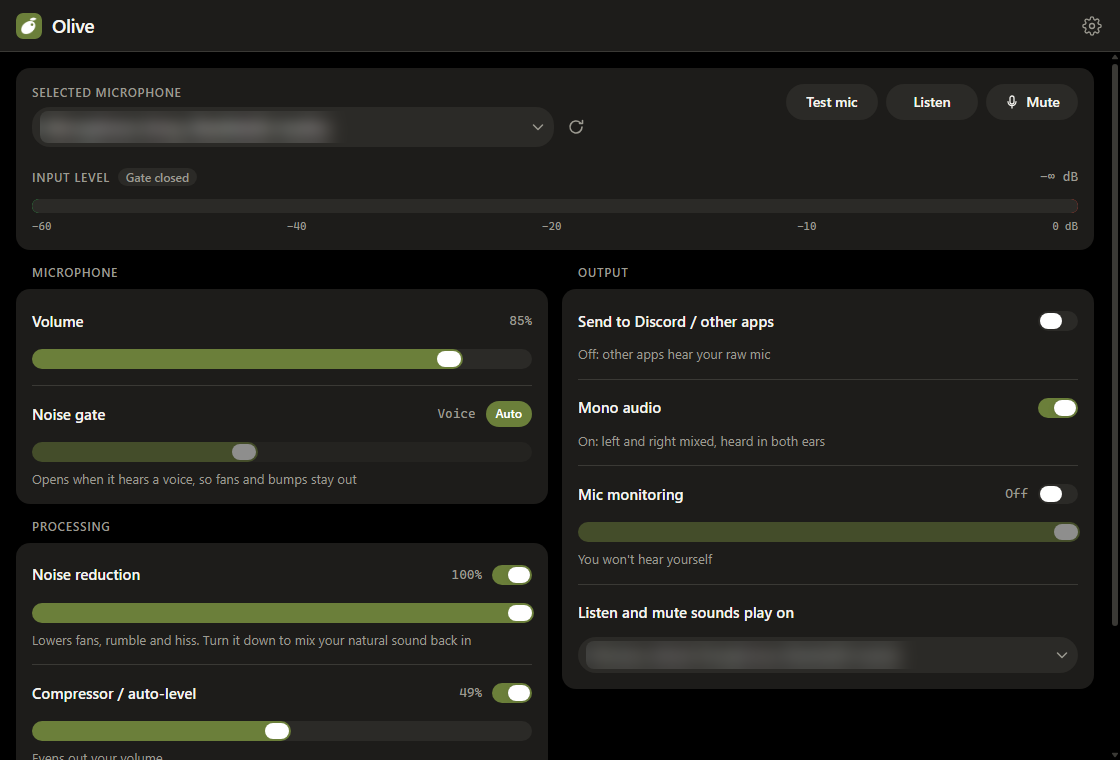
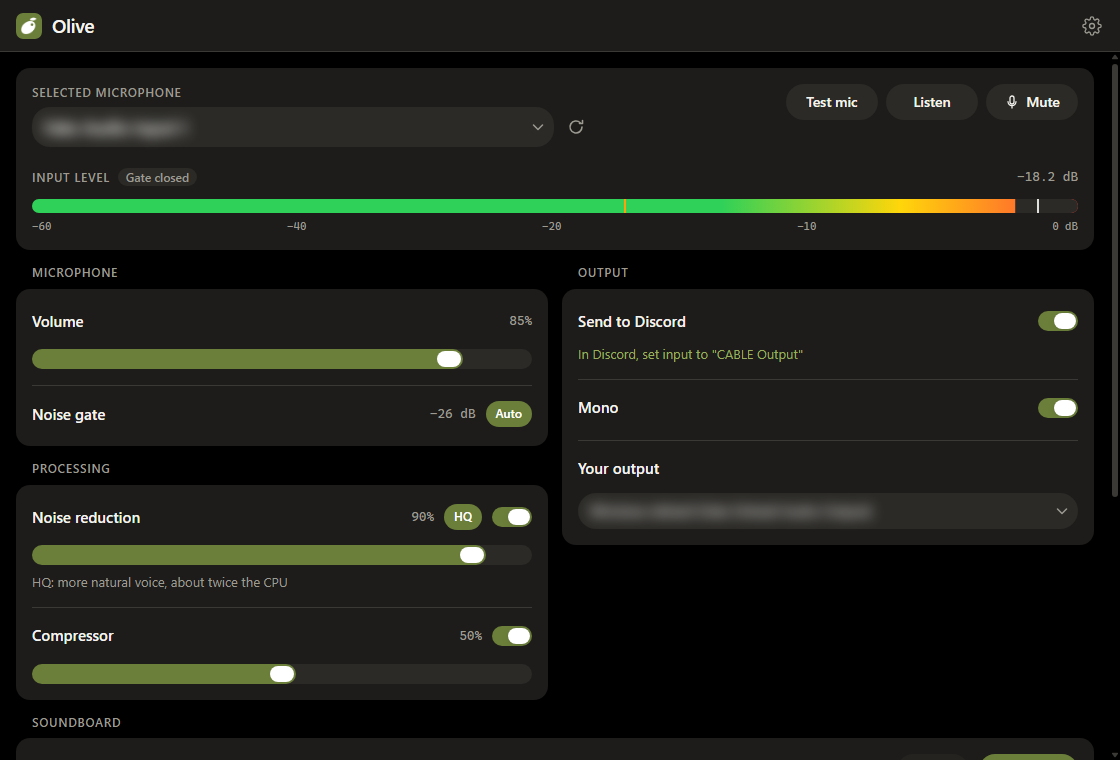
Release 2.0.0
High quality noise reduction (DeepFilterNet3) as the HQ button, the cleaner window, and the lighter defaults. The front page says what's new in 2.0, lists the new files and DeepFilterNet's licence, and has new screenshots (a test copy on a fake mic, shown as a normal install with the cable connected; device names blurred).

diff --git a/README.md b/README.md
@@ -13,7 +13,7 @@
 ## Features
 <img src="docs/settings.png" align="right" width="300" alt="The Settings panel">
 
-- **Voice cleanup:** RNNoise noise reduction with adjustable strength, and a noise gate that opens only when it hears your voice.
+- **Voice cleanup:** noise reduction with two engines, Standard (RNNoise) or HQ (DeepFilterNet3, a more natural voice), and a noise gate that opens only when it hears your voice.
 - **Compressor** to even out your volume.
 - **Six-band EQ** with a low cut and presets, saved separately for each mic, and a hold-to-compare button.
 - **Send to Discord or other apps** through [VB-Audio Virtual Cable](https://vb-audio.com/Cable/).
@@ -27,10 +27,14 @@
 
 <br clear="right">
 
-## What's new in 1.8.1
-- **Noise reduction that keeps your voice.** Olive goes back to RNNoise's April 2024 model: the 2025 one treated some laughs and parts of words as noise. It also removes more of a gusty fan and uses about 30% less CPU.
+## What's new in 2.0
+- **High quality noise reduction.** The **HQ** button next to Noise reduction switches to DeepFilterNet3: your voice comes through more natural, at about twice the CPU of the standard engine (around 1% of a typical PC). Its strength slider caps how much any sound is turned down, so a laugh can be ducked but not cut out.
+- **A cleaner window.** Sliders only show when they do something, and the text says only what you need.
+- **Lighter.** Mono is on by default, and noise reduction you've switched away from no longer keeps running.
 
-### And in 1.8.0
+### And in 1.8
+- **Noise reduction that keeps your voice.** RNNoise's April 2024 model: the 2025 one treated some laughs and parts of words as noise.
+
 ![The soundboard](docs/soundboard.png)
 
 - **A soundboard.** Add sound files (MP3, WAV, OGG, FLAC or M4A, up to 2 minutes), then click one to play it. Discord hears it over your voice.
@@ -103,14 +107,16 @@ src/renderer/    what the window page loads
   audio-engine.js  the audio chain: mic capture, noise reduction, EQ, gate, compressor, soundboard, Listen and the cable. It never touches the page, so a new window can drive it the same way
   badge.html, badge.css  the Muted badge
   voice-worklet.js noise reduction (RNNoise) and the voice gate
+  deepfilter-worklet.js  High quality noise reduction (DeepFilterNet3); dfn-polyfill.js fills in what its glue needs on the audio thread
   gate-worklet.js  volume gate, for a gate set by hand or as the fallback
   nr-worklet.js    fallback noise reduction, if the voice engine can't start
   recorder-worklet.js  records the mic test
-  vendor/          RNNoise (xiph, v0.2 from April 2024) compiled to WebAssembly by tools/build-rnnoise.js
+  vendor/          RNNoise (xiph, v0.2 from April 2024) compiled to WebAssembly by tools/build-rnnoise.js;
+                   deepfilter/: DeepFilterNet3 and its model, built by tools/build-deepfilter.js
 assets/          icons and mute sounds, both made from code (tools/make-icons.js, tools/make-sounds.js)
 docs/            the screenshots above
 CHANGELOG.md     what changed in each release
-tools/           build, packaging, signing, icon and sound scripts; build-rnnoise.js rebuilds vendor/rnnoise.wasm
+tools/           build, packaging, signing, icon and sound scripts; build-rnnoise.js and build-deepfilter.js rebuild the noise reduction
   audio-test/      npm run test:audio
   installer/       the installer and uninstaller source, and npm run test:installer
 ```
@@ -118,4 +124,4 @@ tools/           build, packaging, signing, icon and sound scripts; build-rnnois
 The palette and icon are described in [DESIGN.md](DESIGN.md).
 
 ## Licence
-Olive is released under the [MIT licence](LICENSE): you can use, change and share it, as long as the copyright notice stays with it. The bundled RNNoise build in `src/renderer/vendor` keeps its own BSD licence, in `rnnoise-LICENSE.txt`.
+Olive is released under the [MIT licence](LICENSE): you can use, change and share it, as long as the copyright notice stays with it. The bundled noise reduction in `src/renderer/vendor` keeps its own licences: RNNoise is BSD (`rnnoise-LICENSE.txt`), DeepFilterNet's code and model are MIT or Apache-2.0 (`deepfilter/LICENSE.txt`).

diff --git a/CHANGELOG.md b/CHANGELOG.md
@@ -2,6 +2,13 @@
 
 What changed in each release of Olive. Downloads are on the [Releases](https://github.com/Zaytoonic/Olive/releases) page.
 
+## 2.0.0 (25 November 2026)
+
+- High quality noise reduction: the HQ button next to Noise reduction switches to DeepFilterNet3, which keeps your voice more natural, at about twice the CPU of the standard engine (about 1% of a typical PC). Its strength slider caps how much any sound is turned down, so a laugh can be ducked but not cut out.
+- A cleaner window: sliders only show when they do something, High quality sits beside noise reduction, the Listen volume shows while Listen is on, and the text says only what you need.
+- The soundboard's settings sit in two columns on a wide window.
+- Lighter: Mono is on by default for new installs (stereo ran noise reduction twice, and Discord takes mono), the compressor no longer redraws the window while you talk, and noise reduction that was switched away no longer keeps running in the background.
+
 ## 1.8.1 (24 November 2026)
 
 - Noise reduction goes back to RNNoise's April 2024 model. The 2025 model treated some laughs and parts of words as noise and cut them; the older one let 98.5% of normal talking through the gate on a laptop mic, against 62-88% before, and stays shut when you're quiet.
